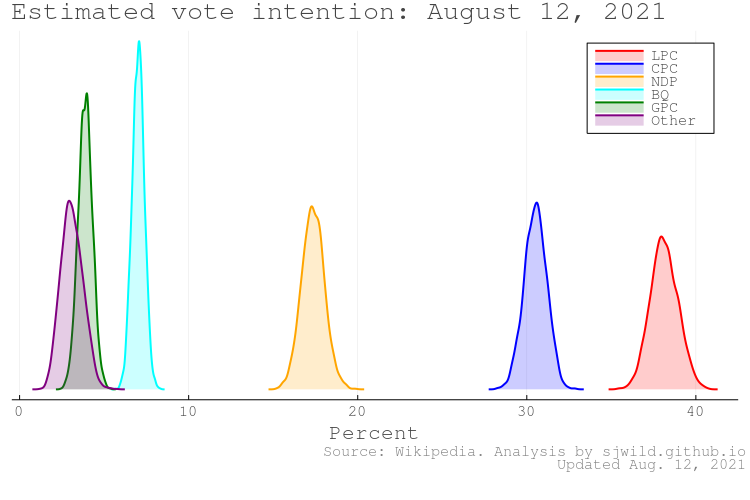
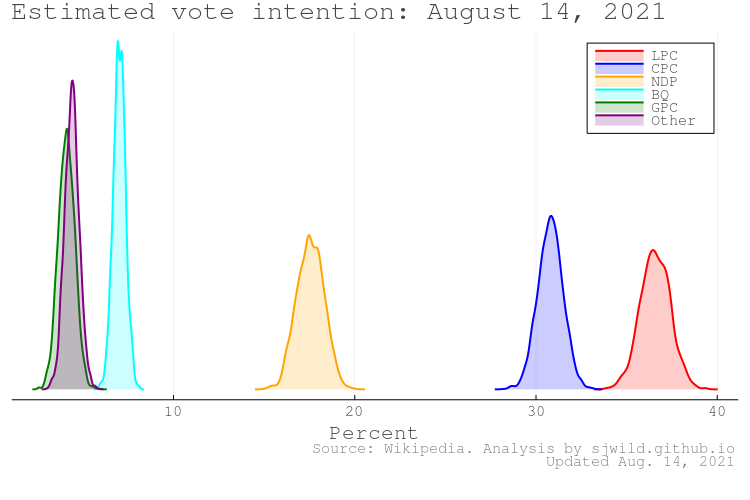
Update for Aug 14, day before election called

diff --git a/README.md b/README.md
@@ -23,16 +23,16 @@ As of August 12, 2021, these are the estimated vote shares based on Canadian pol
 
 |**Party**    | **Vote share**  | **95% bounds**     |
 |-------------|:---------------:|:------------------:|
-|**LPC**      | 38.1%           | (36.6%, 39.7%)     |
-|**CPC**      | 30.5%           | (29.2%, 31.8%)     |
-|**NDP**      | 17.3%           | (16.0%, 18.7%)     |
+|**LPC**      | 36.5%           | (34.6%, 38.2%)     |
+|**CPC**      | 30.8%           | (29.3%, 32.3%)     |
+|**NDP**      | 17.6%           | (16.0%, 19.1%)     |
 |**BQ**       | 7.0%            | (6.3%, 7.7%)       |
-|**GPC**      | 3.9%            | (3.1%, 4.7%)       |
-|**Other**    | 3.1%            | (1.9%, 4.3%)       |
+|**GPC**      | 4.1%            | (3.1%, 5.1%)       |
+|**Other**    | 4.4%            | (3.6%, 5.2%)       |
 
 ![alt text](https://github.com/sjwild/Canandian_Election_2021/raw/main/can_vote_intention_on_election_date.png "Density plot of estimated vote share per party.")
 
-Overall, vote intention has been relatively stable since the last federal election. There was a bump in support for the Liberal Party of Canada, but that increase in support has dropped. 
+Overall, vote intention has been relatively stable since the last federal election. There was a bump in support for the Liberal Party of Canada at the beginning of the pandemic, but that increase in support has dropped. 
 
 ![alt text](https://github.com/sjwild/Canandian_Election_2021/raw/main/can_vote_intention_2019_2021.png "Vote share of Canadian parties from 2019 to 2021.")
 
